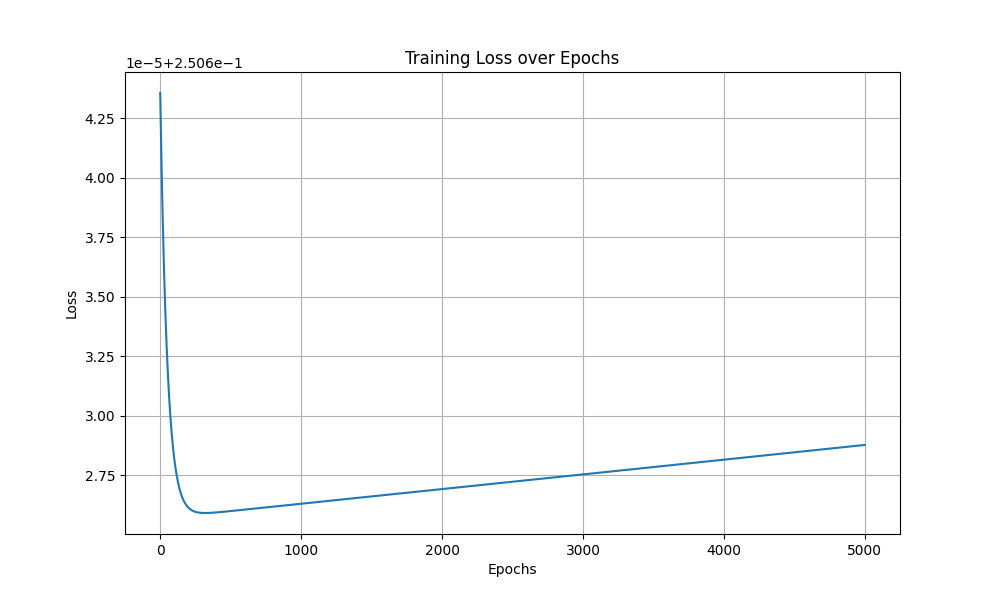
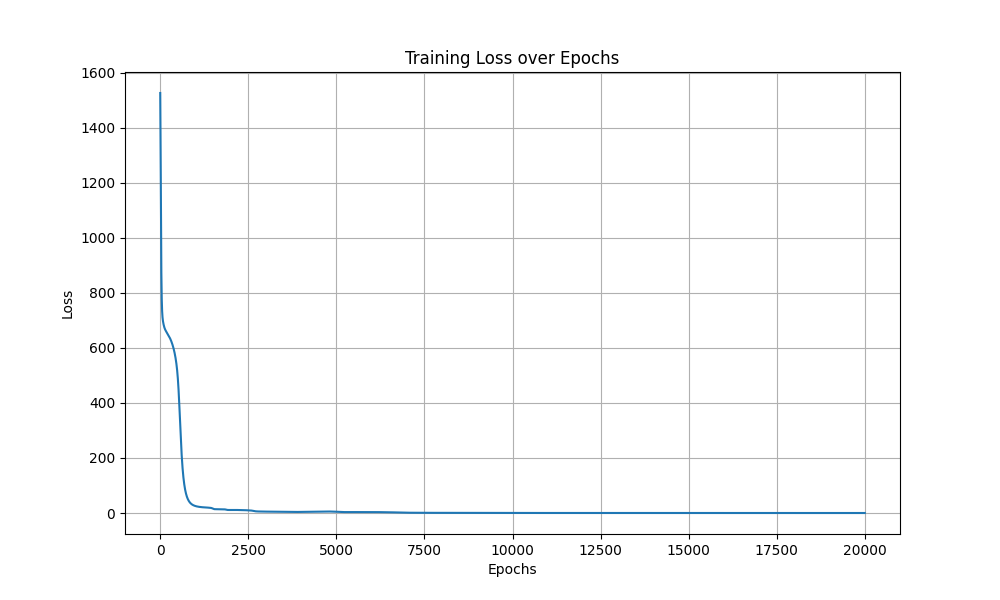
比较好效果的版本

diff --git a/neuron_network.py b/neuron_network.py
@@ -4,7 +4,7 @@ from numpy.typing import NDArray
 from neuron import Neuron
 
 class NeuronNetwork:
-    def __init__(self, layer_sizes: List[int], activation: str = "sigmoid") -> None:
+    def __init__(self, layer_sizes: List[int], activation: str = "sigmoid", output_activation: str="linear") -> None:
         """
         初始化神经网络
         
@@ -12,9 +12,12 @@ class NeuronNetwork:
             layer_sizes: 每层神经元数量的列表(包括输入层、隐藏层和输出层)
             activation: 激活函数类型
         """
+        self.output_activation = output_activation  # 为输出层设置专门的激活函数
+
+
         self.layer_sizes = layer_sizes
         self.activation = activation
-        self.layers = []
+        self.layers: List[List[Neuron]] = []
         
         # 构建神经网络的各层
         for i in range(1, len(layer_sizes)):
@@ -22,8 +25,13 @@ class NeuronNetwork:
             # 在当前层中创建指定数量的神经元
             for _ in range(layer_sizes[i]):
                 # 每个神经元接收前一层所有神经元的输出作为输入
-                neuron = Neuron(layer_sizes[i-1], activation)
+                if i == len(layer_sizes) - 1:  # 输出层
+                    neuron = Neuron(layer_sizes[i-1], self.output_activation)
+                else:  # 隐藏层
+                    neuron = Neuron(layer_sizes[i-1], activation)
+
                 layer.append(neuron)
+                                
             self.layers.append(layer)
     
     def forward(self, inputs: NDArray[np.float64]) -> NDArray[np.float64]:
@@ -95,6 +103,7 @@ class NeuronNetwork:
     
     def train(self, X: NDArray[np.float64], y: NDArray[np.float64], 
               epochs: int = 1000, learning_rate: float = 0.01, 
+              decay_rate: float = 0.0, patience: int = 0, 
               verbose: bool = True) -> List[float]:
         """
         训练神经网络
@@ -103,15 +112,22 @@ class NeuronNetwork:
             X: 训练数据
             y: 目标值
             epochs: 训练轮数
-            learning_rate: 学习率
+            learning_rate: 初始学习率
+            decay_rate: 学习率衰减率
+            patience: 早停耐心值，连续几轮没改善就停止，0表示不启用
             verbose: 是否打印训练进度
             
         返回:
             每个epoch的损失列表
         """
         losses = []
+        best_loss = float('inf')
+        no_improve_count = 0
         
         for epoch in range(epochs):
+            # 学习率衰减
+            learning_rate *= 1.0 / (1.0 + decay_rate * epoch)
+
             total_loss:float = 0.0
             
             # 遍历每个训练样本
@@ -131,6 +147,20 @@ class NeuronNetwork:
             # 计算平均损失
             avg_loss = total_loss / len(X)
             losses.append(avg_loss)
+
+            # 早停检查
+            if patience > 0:
+                if avg_loss < best_loss:
+                    best_loss = avg_loss
+                    no_improve_count = 0
+                else:
+                    no_improve_count += 1
+                    
+                if no_improve_count >= patience:
+                    if verbose:
+                        print(f"Early stopping at epoch {epoch+1}")
+                    break
+
             
             # 打印训练进度
             if verbose and (epoch + 1) % 100 == 0:

diff --git a/test_1.py b/test_1.py
@@ -9,19 +9,27 @@ def test_xor() -> None:
     # 准备XOR数据
     X = np.array([
         [0, 0],
-        [0, 1],
-        [1, 0],
-        [1, 1]
+        [1, 1],
+        [2, 2],
+        [3, 3],
+        [4, 4],
+        [5, 5],
+        [6, 6],
+        [7, 7],
+        [8, 8],
+        [9, 9]
+
     ])
-    y = np.array([0, 1, 1, 0])
+    y = np.array([0, 1, 4, 9, 16, 25, 36, 49, 64, 81])
     
     # 创建神经网络: 2个输入, 4个隐藏神经元, 1个输出
-    nn = NeuronNetwork([2, 4, 1], activation="sigmoid")
+    nn = NeuronNetwork([2, 64, 16, 1], activation="sigmoid", output_activation="linear")
     
     # 训练网络
-    epochs = 5000
-    learning_rate = 0.01
-    losses = nn.train(X, y, epochs=epochs, learning_rate=learning_rate, verbose=True)
+    epochs = 20000
+    learning_rate = 0.0001
+    decay_rate = 0.000000001 # 学习率衰减率
+    losses = nn.train(X, y, epochs=epochs, learning_rate=learning_rate, decay_rate=decay_rate, patience=0, verbose=True)
     
     # 测试网络
     predictions = nn.predict(X)
@@ -31,7 +39,7 @@ def test_xor() -> None:
     
     # 绘制损失曲线
     plt.figure(figsize=(10, 6))
-    plt.plot(range(epochs), losses)
+    plt.plot(range(len(losses)), losses)
     plt.title('Training Loss over Epochs')
     plt.xlabel('Epochs')
     plt.ylabel('Loss')

diff --git a/neuron.py b/neuron.py
@@ -50,6 +50,12 @@ class Neuron:
         """ReLU函数的导数"""
         return np.where(x > 0, 1, 0)
     
+    def _linear(self, x: np.ndarray) -> NDArray[np.float64]:
+        return x
+    
+    def _linear_derivative(self, x: np.ndarray) -> NDArray[np.float64]:
+        return np.ones_like(x)
+    
     def activate(self, x: np.ndarray) -> NDArray[np.float64]:
         """应用激活函数"""
         if self.activation == "sigmoid":
@@ -58,6 +64,8 @@ class Neuron:
             return self._tanh(x)
         elif self.activation == "relu":
             return self._relu(x)
+        elif self.activation == "linear":
+            return self._linear(x)
         else:
             raise ValueError(f"不支持的激活函数: {self.activation}")
     
@@ -69,6 +77,8 @@ class Neuron:
             return self._tanh_derivative(x)
         elif self.activation == "relu":
             return self._relu_derivative(x)
+        elif self.activation == "linear":
+            return self._linear_derivative(x)
         else:
             raise ValueError(f"不支持的激活函数导数: {self.activation}")
     
